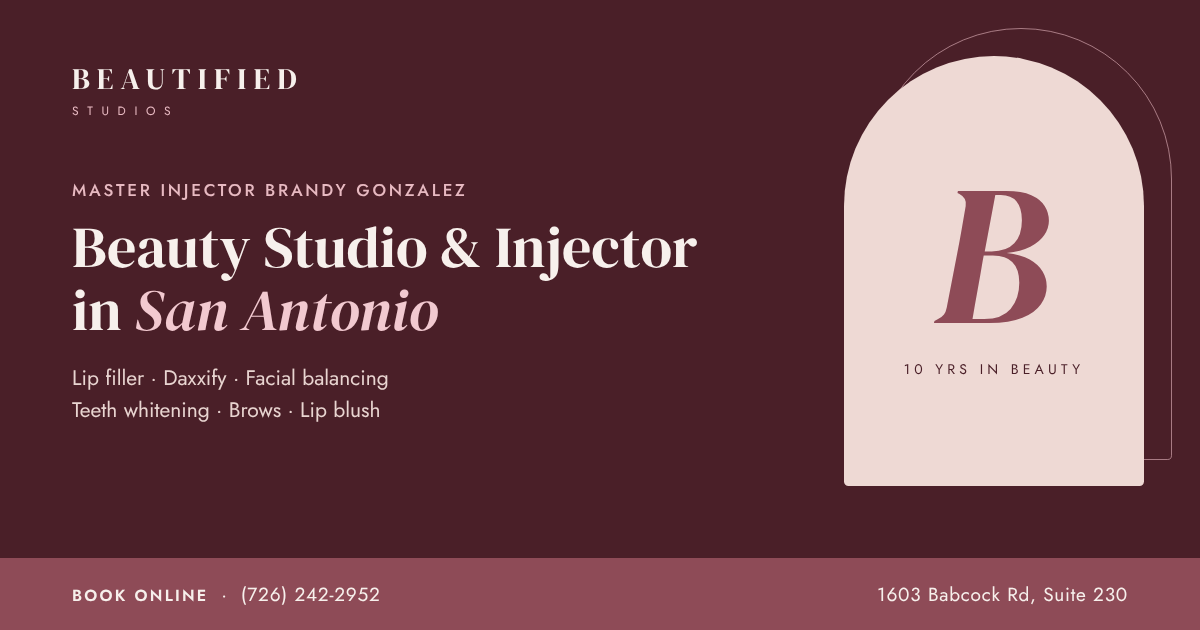
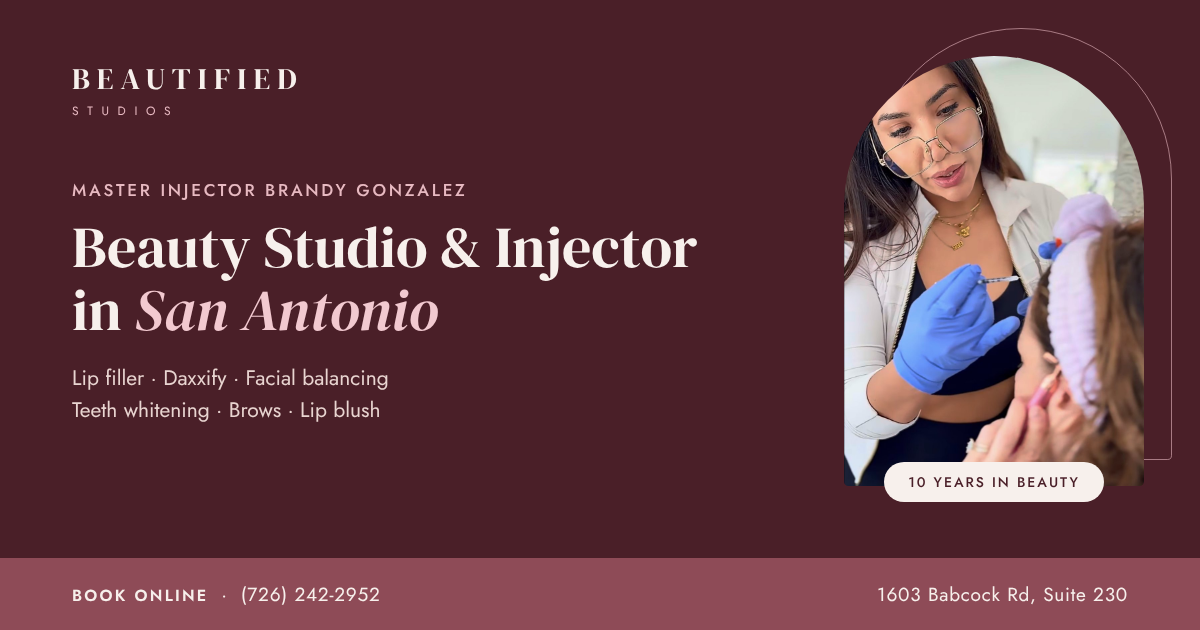
Share card: add Brandy's injecting photo
Claude-Session: https://claude.ai/code/session_01B5Jg2qAKBsZW8oaJ6tb6V1

Changed region(s): [[0.6783, 0.0905, 0.9558, 0.8143]]

diff --git a/tools/static/og-card.html b/tools/static/og-card.html
@@ -18,11 +18,12 @@ h1 em{color:#F2C9D0}
 .mono{font-family:DMS;font-style:italic;font-size:200px;line-height:1;color:#8E4B57;margin-top:-10px}
 .lbl{font-size:14px;letter-spacing:.3em;text-transform:uppercase;color:#4A1F28;margin-top:6px}
 .ring{position:absolute;right:28px;top:28px;width:300px;height:430px;border-radius:200px 200px 6px 6px;border:1.5px solid #E7B9C1;opacity:.6}
+.pill{position:absolute;right:96px;top:462px;width:220px;text-align:center;font-size:14px;letter-spacing:.14em;text-transform:uppercase;background:#F7F0EC;color:#4A1F28;padding:10px 0;border-radius:999px;font-weight:500}
 </style></head><body><div class="c">
 <div class="l"><div class="wm">BEAUTIFIED</div><div class="st">STUDIOS</div>
 <div class="eb">Master Injector Brandy Gonzalez</div>
 <h1>Beauty Studio &amp; Injector<br>in <em>San Antonio</em></h1>
 <div class="sv">Lip filler · Daxxify · Facial balancing<br>Teeth whitening · Brows · Lip blush</div></div>
-<div class="r"><div class="ring"></div><div class="arch"><div class="mono">B</div><div class="lbl">10 yrs in beauty</div></div></div>
+<div class="r"><div class="ring"></div><div class="arch" style="overflow:hidden;background:#EED9D4 url(file:///home/claude/beautify/tools/static/img/brandy-gonzalez-injector-san-antonio.jpg) center 22%/cover no-repeat"></div><div class="pill">10 years in beauty</div></div>
 <div class="bar"><span><b>Book online</b> &nbsp;·&nbsp; (726) 242-2952</span><span>1603 Babcock Rd, Suite 230</span></div>
 </div></body></html>
